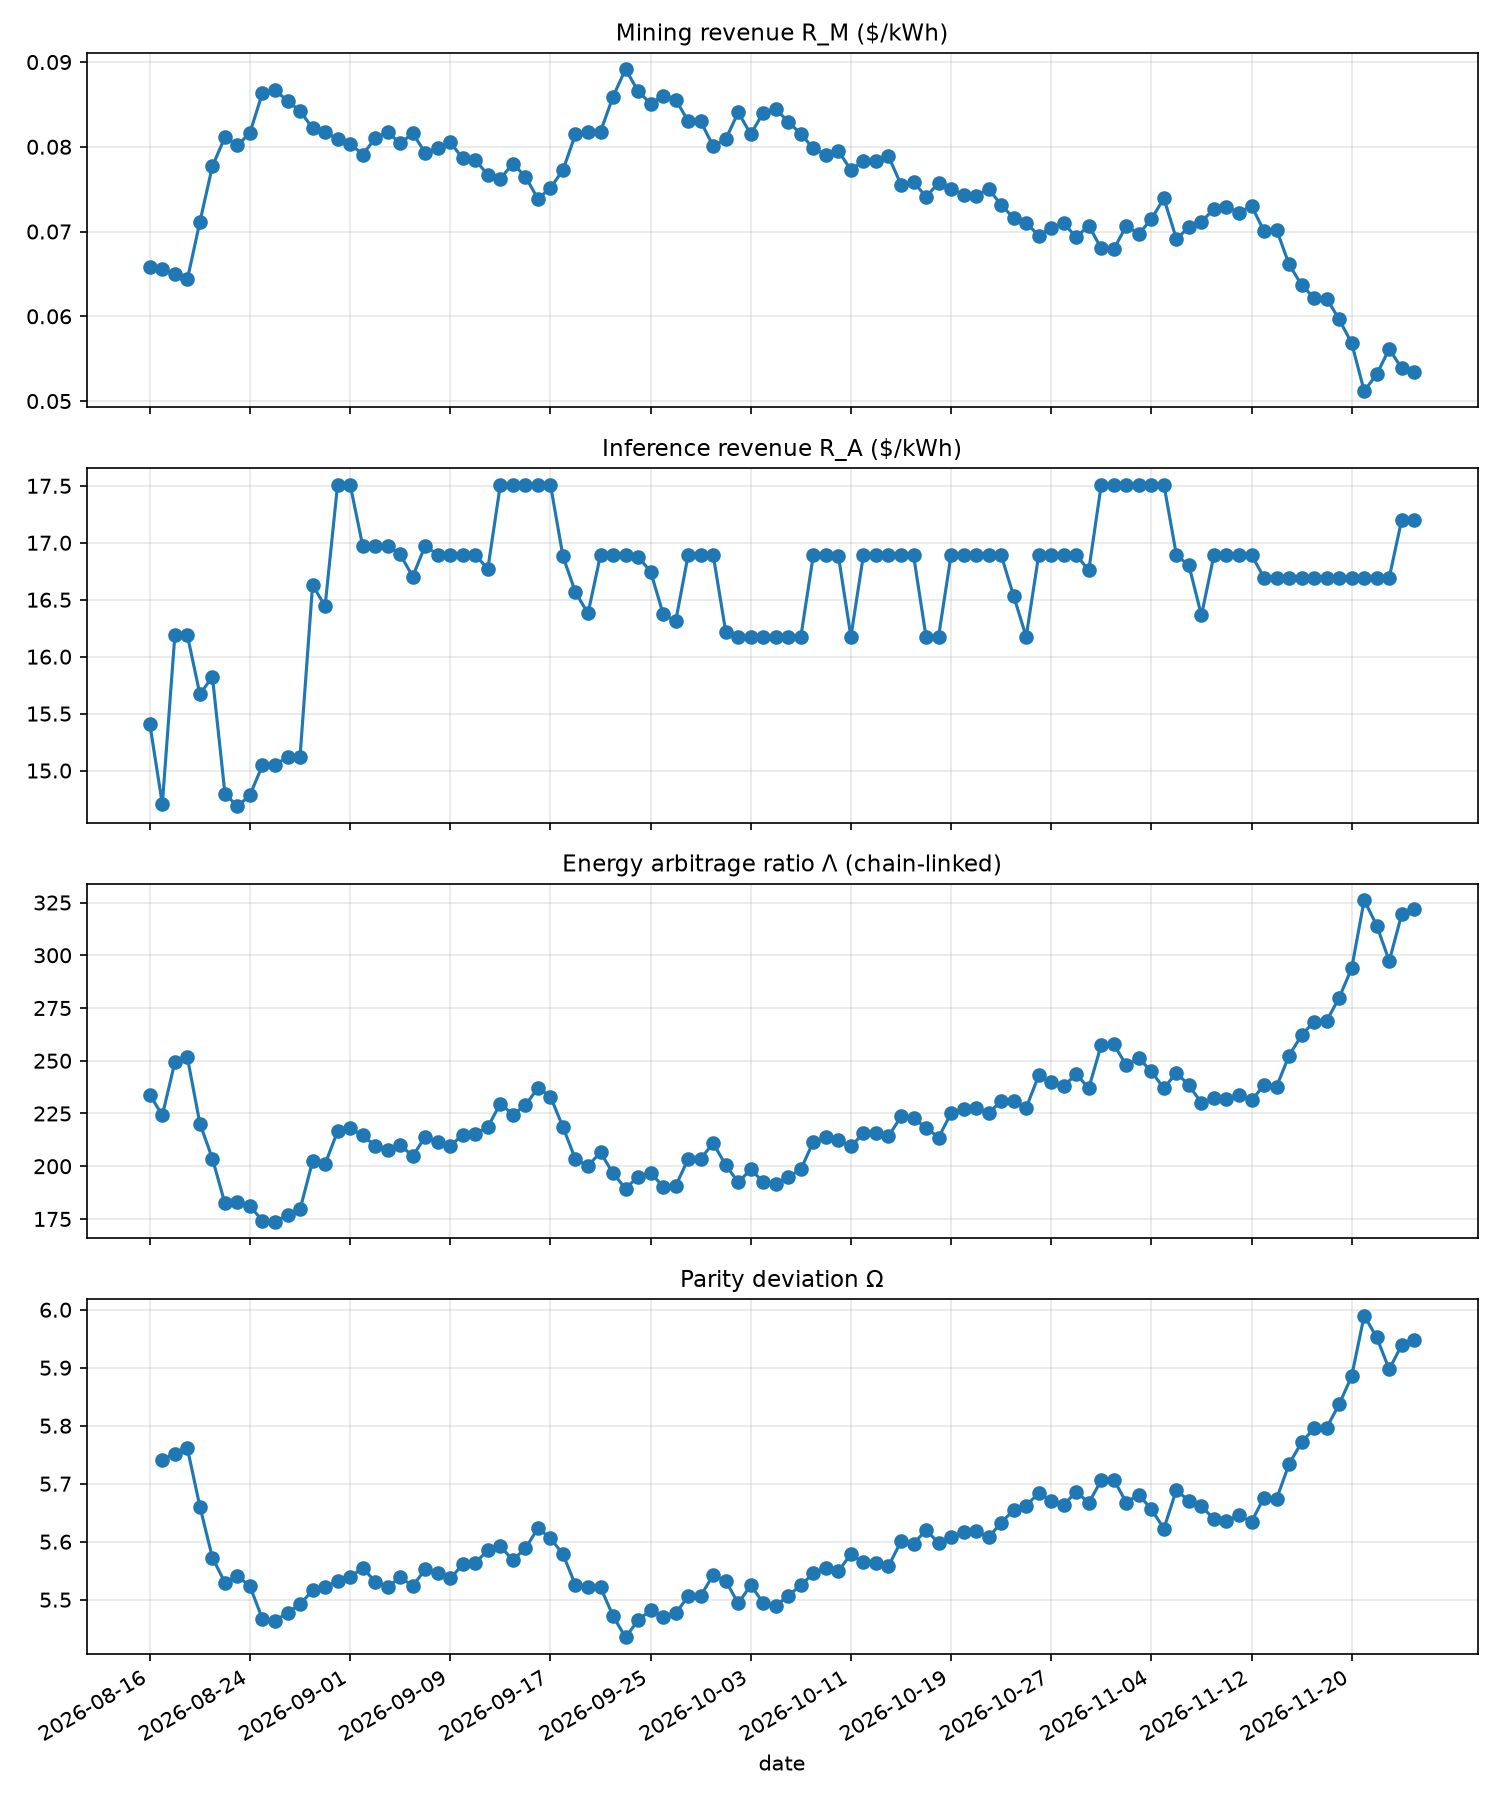
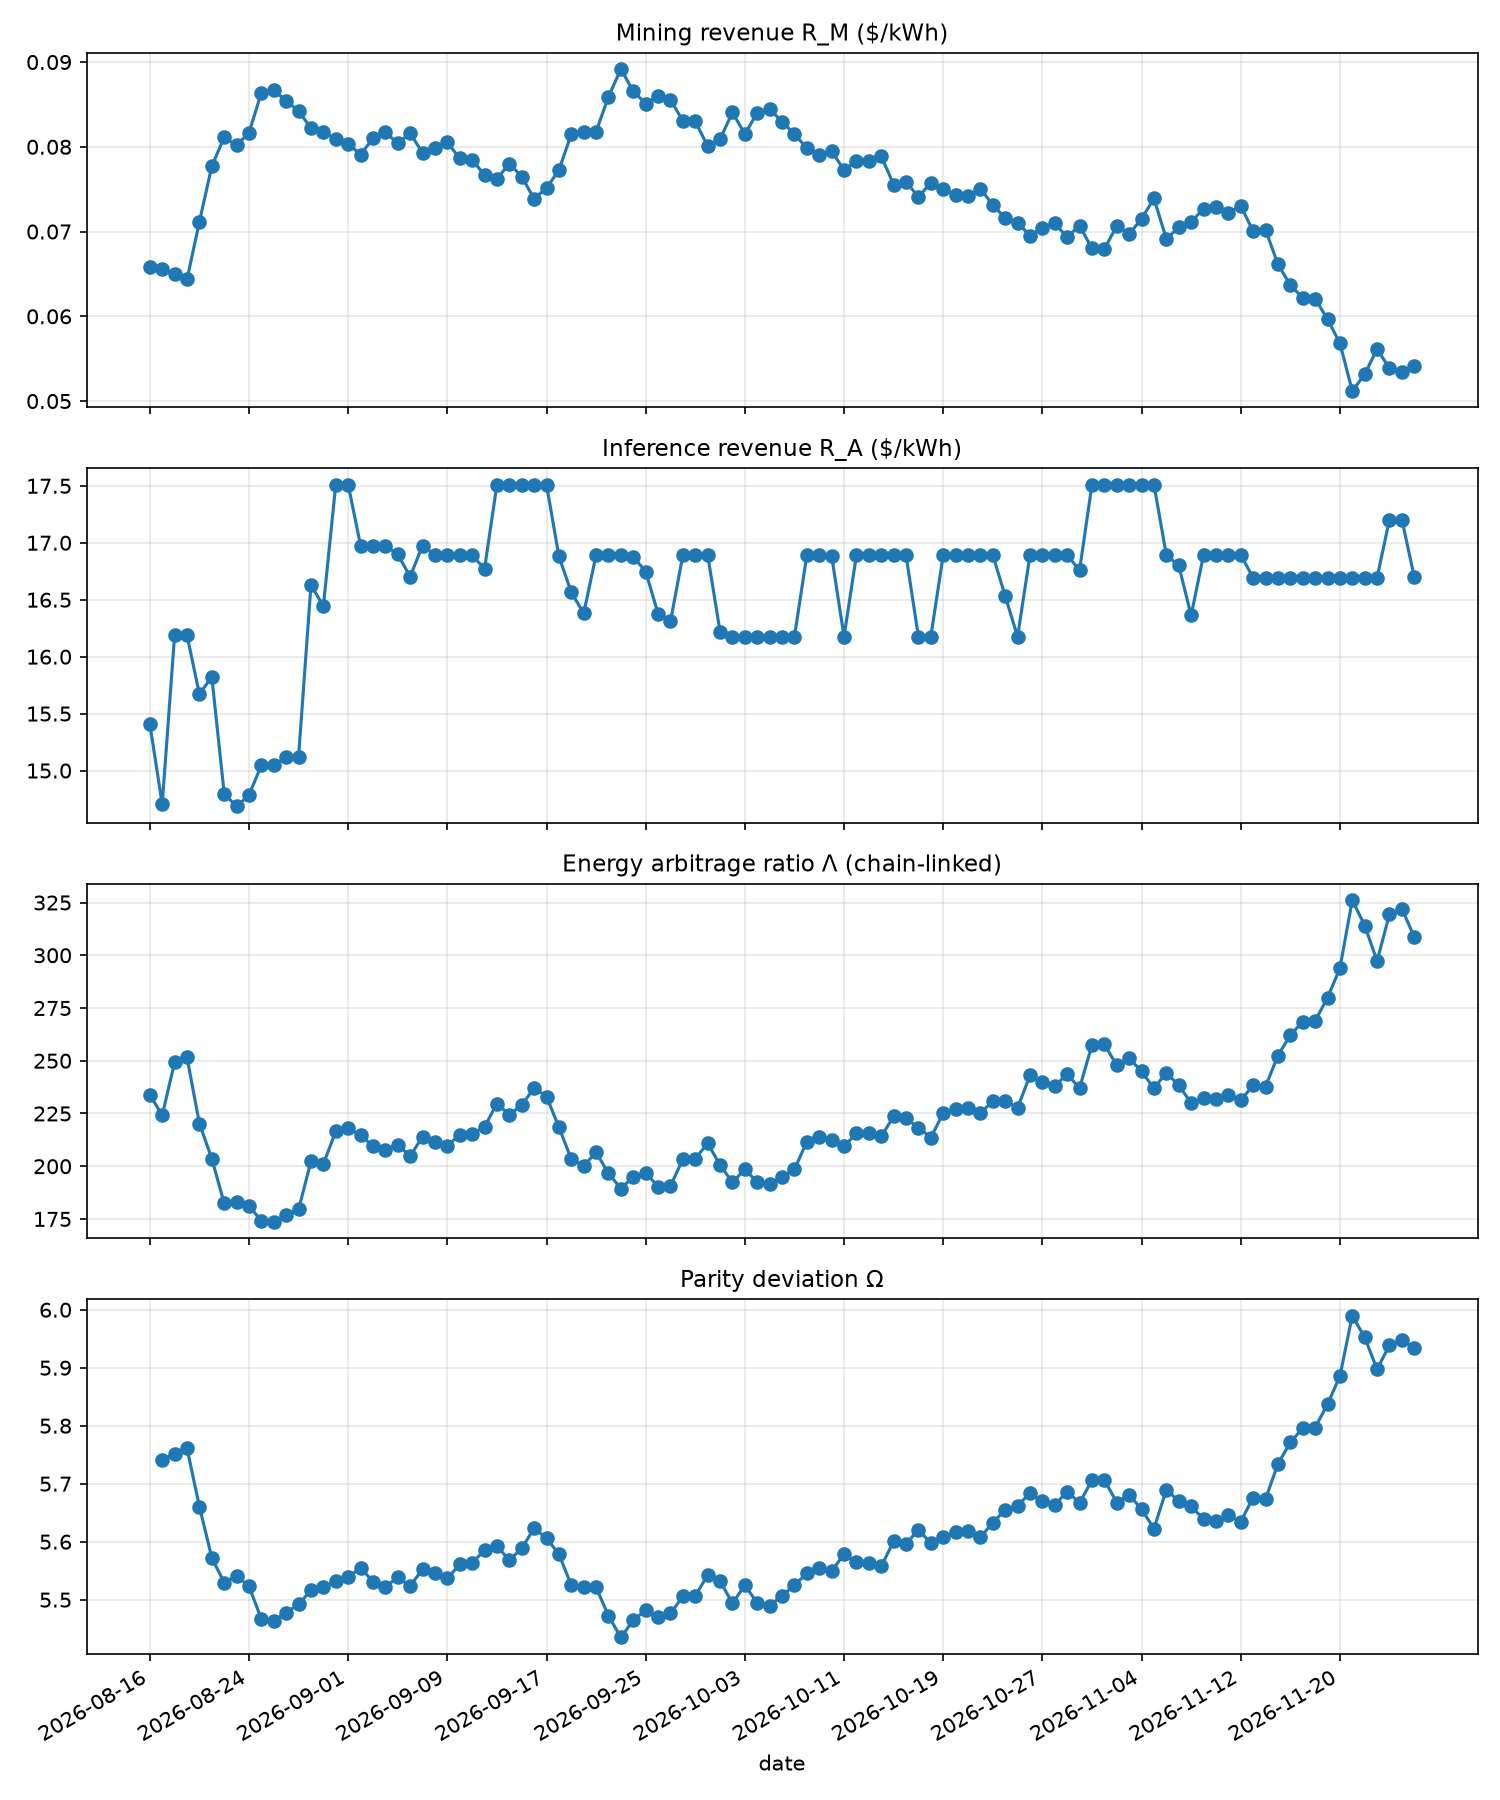
daily update 2026-11-26

diff --git a/docs/index.html b/docs/index.html
@@ -96,7 +96,7 @@ footer a { color: var(--faint); }
   <div class="eyebrow">Abundantics · 丰裕学 / 实证模块 01</div>
   <h1>Token 能量平价指数</h1>
   <p class="sub">同一焦耳，两种耗散：AI 推理 token 与 PoW 加密货币折算到同一物理公分母（每千瓦时收入）后的日频指数族。</p>
-  <div class="stamp">最近更新 2026-11-25 · 数据源 CoinGecko / mempool.space / OpenRouter · 自动更新</div>
+  <div class="stamp">最近更新 2026-11-26 · 数据源 CoinGecko / mempool.space / OpenRouter · 自动更新</div>
 </header>
 
 <div class="kwh">
@@ -107,21 +107,21 @@ footer a { color: var(--faint); }
     <div class="tick" style="left:33.3%"><span>$0.10</span></div>
     <div class="tick" style="left:66.7%"><span>$1</span></div>
     <div class="tick" style="left:98.0%"><span>$10</span></div>
-    <div class="pin mine" style="left:24.3%"><b>挖矿 $0.053</b></div>
-    <div class="pin infer" style="left:98.0%"><b>推理 $17.20</b></div>
+    <div class="pin mine" style="left:24.4%"><b>挖矿 $0.054</b></div>
+    <div class="pin infer" style="left:98.0%"><b>推理 $16.70</b></div>
   </div>
-  <div class="verdict">当前能量套利比 <strong>Λ = 322.1</strong>：一度电喂给推理的毛收入是喂给挖矿的 322 倍（毛收入口径，未扣 GPU 折旧等非电成本）。</div>
+  <div class="verdict">当前能量套利比 <strong>Λ = 308.7</strong>：一度电喂给推理的毛收入是喂给挖矿的 309 倍（毛收入口径，未扣 GPU 折旧等非电成本）。</div>
 </div>
 
 <div class="cards">
   <div class="card"><div class="k">R_M · 挖矿每度电毛收入</div>
-    <div class="v copper">$0.0534</div><div class="d">美元/kWh，由链上数据自算 hashprice ÷ 全网加权能耗</div></div>
+    <div class="v copper">$0.0541</div><div class="d">美元/kWh，由链上数据自算 hashprice ÷ 全网加权能耗</div></div>
   <div class="card"><div class="k">R_A · 推理每度电毛收入</div>
-    <div class="v cobalt">$17.20</div><div class="d">美元/kWh，用量加权模型篮子，标准 token 当量</div></div>
+    <div class="v cobalt">$16.70</div><div class="d">美元/kWh，用量加权模型篮子，标准 token 当量</div></div>
   <div class="card"><div class="k">Λ · 能量套利比</div>
-    <div class="v graphite">322.1</div><div class="d">R_A / R_M，毛收入口径 · 链式接续序列 · chain-linked</div></div>
+    <div class="v graphite">308.7</div><div class="d">R_A / R_M，毛收入口径 · 链式接续序列 · chain-linked</div></div>
   <div class="card"><div class="k">Ω · 平价偏离指数</div>
-    <div class="v oxblood">5.947</div><div class="d">ln(焦耳平价汇率 / 市场隐含汇率)，防御性 vs 生产性耗散的定价缺口</div></div>
+    <div class="v oxblood">5.935</div><div class="d">ln(焦耳平价汇率 / 市场隐含汇率)，防御性 vs 生产性耗散的定价缺口</div></div>
 </div>
 
 <section class="charts">
@@ -158,7 +158,7 @@ footer a { color: var(--faint); }
 </footer>
 </div>
 
-<script>window.__PARITY__ = {"dates": ["2026-08-16", "2026-08-17", "2026-08-18", "2026-08-19", "2026-08-20", "2026-08-21", "2026-08-22", "2026-08-23", "2026-08-24", "2026-08-25", "2026-08-26", "2026-08-27", "2026-08-28", "2026-08-29", "2026-08-30", "2026-08-31", "2026-09-01", "2026-09-02", "2026-09-03", "2026-09-04", "2026-09-05", "2026-09-06", "2026-09-07", "2026-09-08", "2026-09-09", "2026-09-10", "2026-09-11", "2026-09-12", "2026-09-13", "2026-09-14", "2026-09-15", "2026-09-16", "2026-09-17", "2026-09-18", "2026-09-19", "2026-09-20", "2026-09-21", "2026-09-22", "2026-09-23", "2026-09-24", "2026-09-25", "2026-09-26", "2026-09-27", "2026-09-28", "2026-09-29", "2026-09-30", "2026-10-01", "2026-10-02", "2026-10-03", "2026-10-04", "2026-10-05", "2026-10-06", "2026-10-07", "2026-10-08", "2026-10-09", "2026-10-10", "2026-10-11", "2026-10-12", "2026-10-13", "2026-10-14", "2026-10-15", "2026-10-16", "2026-10-17", "2026-10-18", "2026-10-19", "2026-10-20", "2026-10-21", "2026-10-22", "2026-10-23", "2026-10-24", "2026-10-25", "2026-10-26", "2026-10-27", "2026-10-28", "2026-10-29", "2026-10-30", "2026-10-31", "2026-11-01", "2026-11-02", "2026-11-03", "2026-11-04", "2026-11-05", "2026-11-06", "2026-11-07", "2026-11-08", "2026-11-09", "2026-11-10", "2026-11-11", "2026-11-12", "2026-11-13", "2026-11-14", "2026-11-15", "2026-11-16", "2026-11-17", "2026-11-18", "2026-11-19", "2026-11-20", "2026-11-21", "2026-11-22", "2026-11-23", "2026-11-24", "2026-11-25"], "series": {"R_M": [0.06587, 0.065614, 0.064936, 0.064349, 0.071155, 0.077712, 0.081129, 0.080158, 0.081666, 0.086372, 0.086682, 0.085415, 0.08423, 0.082195, 0.08179, 0.080861, 0.080366, 0.079084, 0.080982, 0.081726, 0.080397, 0.081594, 0.079294, 0.079835, 0.08052, 0.078629, 0.078402, 0.076715, 0.076223, 0.078017, 0.076486, 0.07386, 0.075146, 0.07724, 0.081492, 0.081792, 0.081785, 0.085917, 0.089167, 0.086559, 0.085087, 0.086017, 0.085557, 0.083051, 0.082989, 0.080089, 0.080897, 0.084066, 0.081491, 0.084019, 0.084448, 0.082953, 0.081507, 0.079817, 0.079057, 0.079512, 0.077256, 0.078329, 0.078373, 0.078888, 0.075548, 0.075863, 0.074091, 0.075738, 0.075035, 0.074331, 0.074251, 0.075033, 0.073154, 0.071585, 0.071043, 0.069505, 0.070447, 0.070962, 0.069332, 0.070704, 0.068001, 0.067933, 0.070662, 0.069714, 0.071484, 0.073912, 0.069134, 0.070493, 0.071133, 0.072694, 0.07291, 0.072244, 0.073034, 0.070051, 0.070228, 0.066125, 0.063698, 0.062167, 0.062097, 0.059647, 0.056827, 0.051185, 0.053154, 0.056156, 0.05385, 0.053419], "R_A": [15.4088, 14.7051, 16.1883, 16.1883, 15.6699, 15.8235, 14.7983, 14.6847, 14.7859, 15.0462, 15.0462, 15.1227, 15.1227, 16.6286, 16.4437, 17.511, 17.511, 16.9756, 16.9756, 16.9756, 16.8979, 16.7033, 16.9756, 16.892, 16.892, 16.892, 16.892, 16.7713, 17.511, 17.511, 17.511, 17.511, 17.511, 16.8806, 16.5653, 16.3804, 16.892, 16.892, 16.892, 16.877, 16.7472, 16.3771, 16.3091, 16.892, 16.892, 16.892, 16.2199, 16.1754, 16.1754, 16.1754, 16.1754, 16.1754, 16.1754, 16.892, 16.892, 16.8854, 16.1754, 16.892, 16.892, 16.892, 16.892, 16.892, 16.1754, 16.1754, 16.892, 16.892, 16.892, 16.892, 16.892, 16.5329, 16.1754, 16.892, 16.892, 16.892, 16.892, 16.7586, 17.511, 17.511, 17.511, 17.511, 17.511, 17.511, 16.892, 16.8005, 16.3625, 16.892, 16.892, 16.892, 16.892, 16.695, 16.695, 16.695, 16.695, 16.695, 16.695, 16.695, 16.695, 16.695, 16.695, 16.695, 17.2038, 17.2038], "Lambda": [233.93, 224.12, 249.3, 251.57, 220.22, 203.62, 182.4, 183.2, 181.05, 174.2, 173.58, 177.05, 179.54, 202.31, 201.05, 216.56, 217.89, 214.65, 209.62, 207.71, 210.18, 204.71, 214.08, 211.59, 209.79, 214.83, 215.45, 218.62, 229.73, 224.45, 228.94, 237.08, 233.03, 218.55, 203.28, 200.27, 206.54, 196.61, 189.44, 194.98, 196.82, 190.39, 190.62, 203.39, 203.55, 210.92, 200.5, 192.41, 198.49, 192.52, 191.54, 194.99, 198.46, 211.64, 213.67, 212.36, 209.37, 215.66, 215.53, 214.13, 223.59, 222.66, 218.32, 213.57, 225.12, 227.26, 227.5, 225.13, 230.91, 230.96, 227.69, 243.03, 239.79, 238.04, 243.64, 237.02, 257.51, 257.77, 247.81, 251.18, 244.96, 236.92, 244.34, 238.33, 230.03, 232.37, 231.68, 233.82, 231.29, 238.32, 237.73, 252.48, 262.1, 268.55, 268.85, 279.9, 293.79, 326.17, 314.09, 297.3, 319.47, 322.05], "Omega": [null, 5.7416, 5.752, 5.7611, 5.6606, 5.5724, 5.5294, 5.5414, 5.5228, 5.4668, 5.4632, 5.4779, 5.4919, 5.5163, 5.5213, 5.5327, 5.5388, 5.5549, 5.5312, 5.5221, 5.5384, 5.5237, 5.5523, 5.5455, 5.5369, 5.5607, 5.5636, 5.5853, 5.5918, 5.5685, 5.5883, 5.6233, 5.606, 5.5785, 5.5249, 5.5212, 5.5213, 5.472, 5.4349, 5.4646, 5.4818, 5.4709, 5.4762, 5.506, 5.5067, 5.5423, 5.5323, 5.4938, 5.5249, 5.4944, 5.4893, 5.5071, 5.5247, 5.5457, 5.5553, 5.5495, 5.5783, 5.5645, 5.5639, 5.5574, 5.6007, 5.5965, 5.6201, 5.5981, 5.6075, 5.6169, 5.618, 5.6075, 5.6329, 5.6545, 5.6621, 5.684, 5.6706, 5.6633, 5.6865, 5.6669, 5.7059, 5.7069, 5.6675, 5.681, 5.656, 5.6226, 5.6894, 5.6699, 5.6609, 5.6392, 5.6362, 5.6454, 5.6345, 5.6762, 5.6737, 5.7339, 5.7713, 5.7956, 5.7967, 5.837, 5.8854, 5.99, 5.9522, 5.8973, 5.9392, 5.9473]}};</script>
+<script>window.__PARITY__ = {"dates": ["2026-08-16", "2026-08-17", "2026-08-18", "2026-08-19", "2026-08-20", "2026-08-21", "2026-08-22", "2026-08-23", "2026-08-24", "2026-08-25", "2026-08-26", "2026-08-27", "2026-08-28", "2026-08-29", "2026-08-30", "2026-08-31", "2026-09-01", "2026-09-02", "2026-09-03", "2026-09-04", "2026-09-05", "2026-09-06", "2026-09-07", "2026-09-08", "2026-09-09", "2026-09-10", "2026-09-11", "2026-09-12", "2026-09-13", "2026-09-14", "2026-09-15", "2026-09-16", "2026-09-17", "2026-09-18", "2026-09-19", "2026-09-20", "2026-09-21", "2026-09-22", "2026-09-23", "2026-09-24", "2026-09-25", "2026-09-26", "2026-09-27", "2026-09-28", "2026-09-29", "2026-09-30", "2026-10-01", "2026-10-02", "2026-10-03", "2026-10-04", "2026-10-05", "2026-10-06", "2026-10-07", "2026-10-08", "2026-10-09", "2026-10-10", "2026-10-11", "2026-10-12", "2026-10-13", "2026-10-14", "2026-10-15", "2026-10-16", "2026-10-17", "2026-10-18", "2026-10-19", "2026-10-20", "2026-10-21", "2026-10-22", "2026-10-23", "2026-10-24", "2026-10-25", "2026-10-26", "2026-10-27", "2026-10-28", "2026-10-29", "2026-10-30", "2026-10-31", "2026-11-01", "2026-11-02", "2026-11-03", "2026-11-04", "2026-11-05", "2026-11-06", "2026-11-07", "2026-11-08", "2026-11-09", "2026-11-10", "2026-11-11", "2026-11-12", "2026-11-13", "2026-11-14", "2026-11-15", "2026-11-16", "2026-11-17", "2026-11-18", "2026-11-19", "2026-11-20", "2026-11-21", "2026-11-22", "2026-11-23", "2026-11-24", "2026-11-25", "2026-11-26"], "series": {"R_M": [0.06587, 0.065614, 0.064936, 0.064349, 0.071155, 0.077712, 0.081129, 0.080158, 0.081666, 0.086372, 0.086682, 0.085415, 0.08423, 0.082195, 0.08179, 0.080861, 0.080366, 0.079084, 0.080982, 0.081726, 0.080397, 0.081594, 0.079294, 0.079835, 0.08052, 0.078629, 0.078402, 0.076715, 0.076223, 0.078017, 0.076486, 0.07386, 0.075146, 0.07724, 0.081492, 0.081792, 0.081785, 0.085917, 0.089167, 0.086559, 0.085087, 0.086017, 0.085557, 0.083051, 0.082989, 0.080089, 0.080897, 0.084066, 0.081491, 0.084019, 0.084448, 0.082953, 0.081507, 0.079817, 0.079057, 0.079512, 0.077256, 0.078329, 0.078373, 0.078888, 0.075548, 0.075863, 0.074091, 0.075738, 0.075035, 0.074331, 0.074251, 0.075033, 0.073154, 0.071585, 0.071043, 0.069505, 0.070447, 0.070962, 0.069332, 0.070704, 0.068001, 0.067933, 0.070662, 0.069714, 0.071484, 0.073912, 0.069134, 0.070493, 0.071133, 0.072694, 0.07291, 0.072244, 0.073034, 0.070051, 0.070228, 0.066125, 0.063698, 0.062167, 0.062097, 0.059647, 0.056827, 0.051185, 0.053154, 0.056156, 0.05385, 0.053419, 0.0541], "R_A": [15.4088, 14.7051, 16.1883, 16.1883, 15.6699, 15.8235, 14.7983, 14.6847, 14.7859, 15.0462, 15.0462, 15.1227, 15.1227, 16.6286, 16.4437, 17.511, 17.511, 16.9756, 16.9756, 16.9756, 16.8979, 16.7033, 16.9756, 16.892, 16.892, 16.892, 16.892, 16.7713, 17.511, 17.511, 17.511, 17.511, 17.511, 16.8806, 16.5653, 16.3804, 16.892, 16.892, 16.892, 16.877, 16.7472, 16.3771, 16.3091, 16.892, 16.892, 16.892, 16.2199, 16.1754, 16.1754, 16.1754, 16.1754, 16.1754, 16.1754, 16.892, 16.892, 16.8854, 16.1754, 16.892, 16.892, 16.892, 16.892, 16.892, 16.1754, 16.1754, 16.892, 16.892, 16.892, 16.892, 16.892, 16.5329, 16.1754, 16.892, 16.892, 16.892, 16.892, 16.7586, 17.511, 17.511, 17.511, 17.511, 17.511, 17.511, 16.892, 16.8005, 16.3625, 16.892, 16.892, 16.892, 16.892, 16.695, 16.695, 16.695, 16.695, 16.695, 16.695, 16.695, 16.695, 16.695, 16.695, 16.695, 17.2038, 17.2038, 16.6989], "Lambda": [233.93, 224.12, 249.3, 251.57, 220.22, 203.62, 182.4, 183.2, 181.05, 174.2, 173.58, 177.05, 179.54, 202.31, 201.05, 216.56, 217.89, 214.65, 209.62, 207.71, 210.18, 204.71, 214.08, 211.59, 209.79, 214.83, 215.45, 218.62, 229.73, 224.45, 228.94, 237.08, 233.03, 218.55, 203.28, 200.27, 206.54, 196.61, 189.44, 194.98, 196.82, 190.39, 190.62, 203.39, 203.55, 210.92, 200.5, 192.41, 198.49, 192.52, 191.54, 194.99, 198.46, 211.64, 213.67, 212.36, 209.37, 215.66, 215.53, 214.13, 223.59, 222.66, 218.32, 213.57, 225.12, 227.26, 227.5, 225.13, 230.91, 230.96, 227.69, 243.03, 239.79, 238.04, 243.64, 237.02, 257.51, 257.77, 247.81, 251.18, 244.96, 236.92, 244.34, 238.33, 230.03, 232.37, 231.68, 233.82, 231.29, 238.32, 237.73, 252.48, 262.1, 268.55, 268.85, 279.9, 293.79, 326.17, 314.09, 297.3, 319.47, 322.05, 308.67], "Omega": [null, 5.7416, 5.752, 5.7611, 5.6606, 5.5724, 5.5294, 5.5414, 5.5228, 5.4668, 5.4632, 5.4779, 5.4919, 5.5163, 5.5213, 5.5327, 5.5388, 5.5549, 5.5312, 5.5221, 5.5384, 5.5237, 5.5523, 5.5455, 5.5369, 5.5607, 5.5636, 5.5853, 5.5918, 5.5685, 5.5883, 5.6233, 5.606, 5.5785, 5.5249, 5.5212, 5.5213, 5.472, 5.4349, 5.4646, 5.4818, 5.4709, 5.4762, 5.506, 5.5067, 5.5423, 5.5323, 5.4938, 5.5249, 5.4944, 5.4893, 5.5071, 5.5247, 5.5457, 5.5553, 5.5495, 5.5783, 5.5645, 5.5639, 5.5574, 5.6007, 5.5965, 5.6201, 5.5981, 5.6075, 5.6169, 5.618, 5.6075, 5.6329, 5.6545, 5.6621, 5.684, 5.6706, 5.6633, 5.6865, 5.6669, 5.7059, 5.7069, 5.6675, 5.681, 5.656, 5.6226, 5.6894, 5.6699, 5.6609, 5.6392, 5.6362, 5.6454, 5.6345, 5.6762, 5.6737, 5.7339, 5.7713, 5.7956, 5.7967, 5.837, 5.8854, 5.99, 5.9522, 5.8973, 5.9392, 5.9473, 5.9346]}};</script>
 <script src="https://cdnjs.cloudflare.com/ajax/libs/Chart.js/4.4.1/chart.umd.min.js"
         onerror="document.getElementById('jscharts').style.display='none';document.getElementById('pngfallback').style.display='block';"></script>
 <script>
